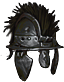
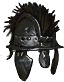
Give restored Ancient steel an iron and zinc finish

diff --git a/tests/ancient-restoration.test.js b/tests/ancient-restoration.test.js
@@ -265,3 +265,17 @@ test('restoration preserves dark metal seams and separates polished highlights',
     assert.deepEqual(image.rgba, rgba, 'source pixels remain immutable');
   }
 });
+
+test('galvanized steel has deterministic restrained zinc facets without texturing bronze',()=>{
+ const rgba=Buffer.from(Array.from({length:64},()=>[150,130,85,255]).flat()),image={width:8,height:8,rgba};
+ const steel=restorePixels(image,'steel','bb-ancient-plate-harness','icon').rgba;
+ assert.deepEqual(steel,restorePixels(image,'steel','bb-ancient-plate-harness','icon').rgba);
+ const tones=new Set(),bronzeTones=new Set(),bronze=restorePixels(image,'bronze','bb-ancient-plate-harness','icon').rgba;
+ for(let p=0;p<rgba.length;p+=4){
+  tones.add(steel[p+1]);bronzeTones.add(bronze[p+1]);
+  assert.equal(steel[p+3],rgba[p+3]);
+  assert.ok(Math.max(...steel.subarray(p,p+3))-Math.min(...steel.subarray(p,p+3))<=8,'neutral zinc metal');
+ }
+ assert.ok(tones.size>1);assert.ok(Math.max(...tones)-Math.min(...tones)<=10,'mottling stays restrained');
+ assert.equal(bronzeTones.size,1);assert.deepEqual(image.rgba,rgba);
+});

diff --git a/sw.js b/sw.js
@@ -1,5 +1,5 @@
 // Generated by tools/build-cache.mjs. Do not edit by hand.
-const CACHE = "ashen-company-87bde87640e9fd78";
+const CACHE = "ashen-company-d86ead2731673648";
 const ASSETS = [
   "./",
   "./index.html",

diff --git a/docs/ANCIENT-RESTORATION-ART.md b/docs/ANCIENT-RESTORATION-ART.md
@@ -1,0 +1,22 @@
+# Ancient Restoration finishes
+
+The armorer uses generated recolors of the original Ancient sprites in
+`src/dlc-art.js`. Run `node tools/content/restore-ancient-art.mjs` to regenerate
+inventory icons, worn layers and the source/output hash manifest.
+
+Bronze retains its existing warm, shadow-preserving recolor. Restored steel uses
+neutral iron shadows and restrained zinc-silver highlights. Existing interior
+creases are darkened on the metal side using source-neighbor luminance; lit
+surfaces receive a small, deterministic faceted variation inspired by galvanized
+steel. The texture is deliberately subtle at inventory/combat scale. This is a
+material treatment, not an assertion of historical galvanizing techniques.
+
+The source metal mask excludes neutral mail, dark leather and helmet plumes;
+the breastplate's leather skirt is excluded spatially. Pixel dimensions, every
+alpha value, portrait anchors and equipment silhouettes remain unchanged. No
+plates, pauldrons or ornaments are added: those would require matching icon and
+worn-layer drawings for every design. Named steel uses the same finish assets.
+
+Tests in `tests/ancient-restoration.test.js` verify unchanged geometry/alpha,
+dark seams, highlight separation, deterministic restrained zinc texture and
+untextured bronze. Restoration odds, stats and item IDs are unchanged.
